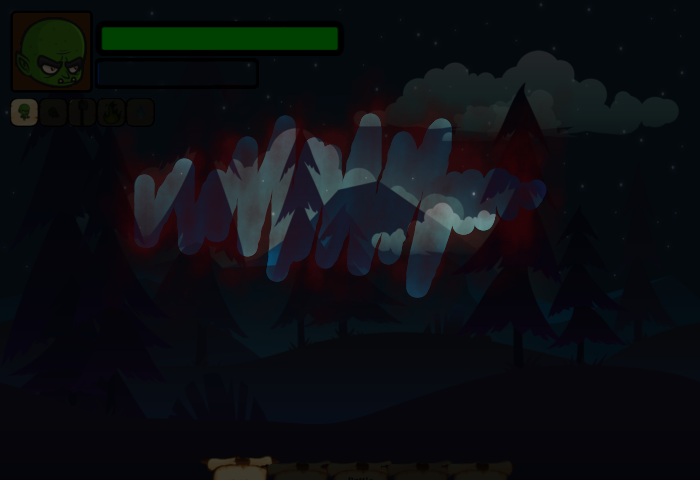
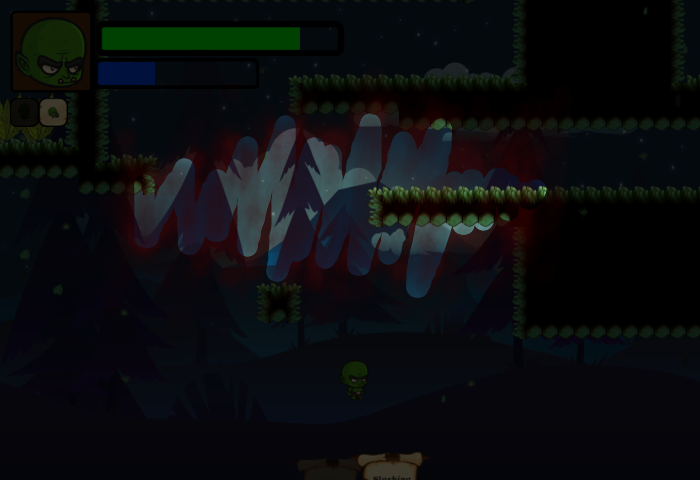
Adding some of the player attacks

diff --git a/data/gameplay/player/__init__.py b/data/gameplay/player/__init__.py
@@ -37,7 +37,7 @@ class Player(object):
         self.slashingControl = 0
         self.count = 0
         self.fireArray = []
-        self.fire = Fire(self.screen, 'greenfire', self.player_rect)
+        self.fire = Fire(self.screen, 'greenfire', self.player_rect, self.move_direction)
         self.enimyCollision = False
         self.enimyType = ''         
 
@@ -200,13 +200,15 @@ class Player(object):
                 self.jumping = True
         ## button for to attack
         if key_press[K_q]:
-            if(self.skillsInUse == 'bluefire' or self.skillsInUse == 'greenfire'):
-                self.fireArray.append(Fire(self.screen, self.skillsInUse,(self.player_rect.x-scroll[0], self.player_rect.y-scroll[1])))
+            if((self.skillsInUse == 'bluefire' or self.skillsInUse == 'greenfire') and (self.count >= 10)):
+                self.fireArray.append(Fire(self.screen, self.skillsInUse,(self.player_rect.x-scroll[0], self.player_rect.y-scroll[1]), self.move_direction))
                 self.firing = True
+                self.count = 0
             self.attack = True
         else:
             self.slashingControl = 0
             self.attack = False
+        self.count += 1
         
 
     def walk(self):
@@ -262,9 +264,9 @@ class Player(object):
         if (self.skillsInUse == 'kicking'):
             self.kicking()
         elif(self.skillsInUse == 'greenfire'):
-            self.throwing('greenfire')
+            self.throwing()
         elif(self.skillsInUse == 'bluefire'):
-            self.throwing('bluefire')
+            self.throwing()
         ## just for hork
         elif(self.skillsInUse == 'slashing'):
             ## Actuly is sliding not slashing after i will change this logic in all over the project
@@ -296,11 +298,11 @@ class Player(object):
             self.player_img = pygame.image.load("resources/image/Golem/"+self.state+"/"+self.move_direction+"/0_Goblin_"+self.state+"_0.png").convert_alpha()
         
     def sliding(self):
-        self.state = 'battleax'
-        if(((not self.moving_right)or(not self.moving_left ))and(self.move_frame <= 11)):
+        self.state = 'Sliding'
+        if(((not self.moving_right)or(not self.moving_left ))and(self.move_frame <= 5)):
             self.player_img = pygame.image.load("resources/image/Golem/"+self.state+"/"+self.move_direction+"/0_Goblin_"+self.state+"_"+str(self.move_frame)+".png").convert_alpha()
             self.move_frame += 1
-        elif(((not self.moving_right)or(not self.moving_left))and(self.move_frame > 11)):
+        elif(((not self.moving_right)or(not self.moving_left))and(self.move_frame > 5)):
             self.move_frame = 0
             # self.hurtten = False
             self.player_img = pygame.image.load("resources/image/Golem/"+self.state+"/"+self.move_direction+"/0_Goblin_"+self.state+"_"+str(self.move_frame)+".png").convert_alpha()
@@ -317,22 +319,33 @@ class Player(object):
         else:
             self.attack = False
 
-    def throwing(self, type):
-        pass
-    # def numberSprite(self):
-    #     if(self.state=='Walking'):
-    #         return 23
-    #     elif(self.state=='Idle'):
-    #         return 17
+    def throwing(self):
+        self.state = 'Throwing' 
+        if(((not self.moving_right)or(not self.moving_left ))and(self.move_frame <= 11)):
+            self.player_img = pygame.image.load("resources/image/Golem/"+self.state+"/"+self.move_direction+"/0_Goblin_"+self.state+"_"+str(self.move_frame)+".png").convert_alpha()
+            self.move_frame += 1
+        elif(((not self.moving_right)or(not self.moving_left))and(self.move_frame > 11)):
+            self.move_frame = 0
+            # self.hurtten = False
+            self.player_img = pygame.image.load("resources/image/Golem/"+self.state+"/"+self.move_direction+"/0_Goblin_"+self.state+"_"+str(self.move_frame)+".png").convert_alpha()
+        else:
+            self.player_img = pygame.image.load("resources/image/Golem/"+self.state+"/"+self.move_direction+"/0_Goblin_"+self.state+"_0.png").convert_alpha()
 
 class Fire(object):
-    def __init__(self, screen, fireType, pos):
+    def __init__(self, screen, fireType, pos, direction):
         self.screen = screen
-        self.img = pygame.image.load("resources/image/Golem/fire/"+fireType+".png")
-        self.x = pos[0]+25
+        self.img = pygame.image.load("resources/image/Golem/fire/"+direction+"/"+fireType+".png")
+        if(direction == "right"):
+            self.x = pos[0]+30
+        else:
+            self.x = pos[0]-25
         self.y = pos[1]+15
+        self.direction = direction
 
 
     def draw(self):
         self.screen.blit(self.img, (self.x, self.y))
-        self.x += 10
+        if(self.direction == 'right'):
+            self.x += 10
+        else:
+            self.x -= 10
